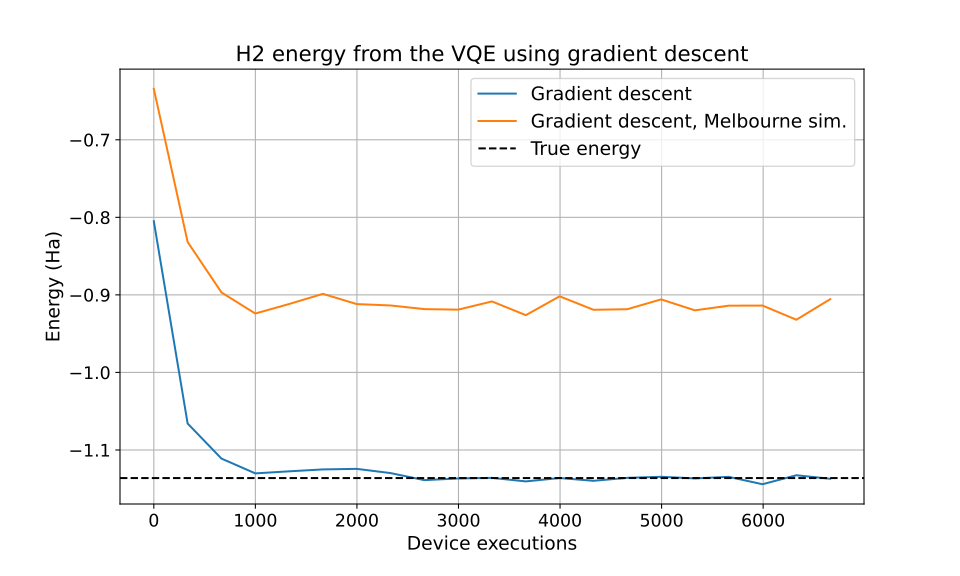
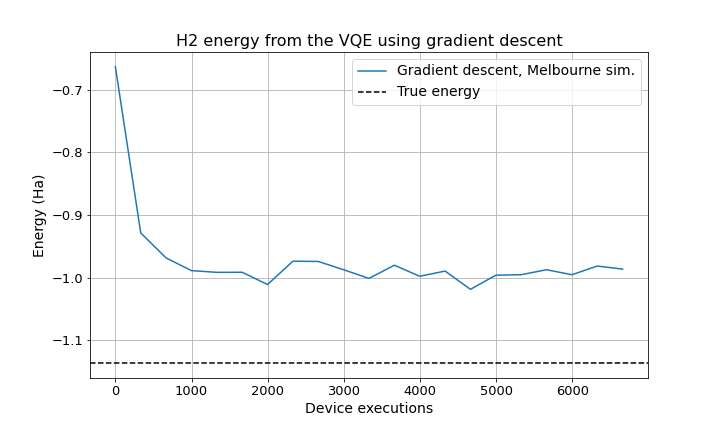
Update noisy VQE example.

diff --git a/demonstrations/spsa.py b/demonstrations/spsa.py
@@ -483,15 +483,15 @@ print(f"Accuracy with respect to the true energy: {np.abs(energy - true_energy):
 #  Out:
 #
 #  .. code-block:: none
+#     Iteration = 0,  Energy = -0.66345346 Ha
+#     Iteration = 5,  Energy = -0.99124272 Ha
+#     Iteration = 10,  Energy = -1.00105536 Ha
+#     Iteration = 15,  Energy = -0.99592924 Ha
 #
-#     Iteration = 0,  Energy = -0.63437409 Ha
-#     Iteration = 5,  Energy = -0.89866763 Ha
-#     Iteration = 10,  Energy = -0.90846615 Ha
-#     Iteration = 15,  Energy = -0.90582867 Ha
+#     Final estimated value of the ground-state energy = -0.98134253 Ha
+#     Accuracy with respect to the true energy: 0.15484692 Ha
 #
-#     Final estimated value of the ground-state energy = -0.93208561 Ha
-#     Accuracy with respect to the true energy: 0.20410384 Ha
-#
+
 
 plt.figure(figsize=(10, 6))
 
@@ -603,8 +603,17 @@ print(f"Accuracy with respect to the true energy: {np.abs(energy - true_energy):
 
 plt.figure(figsize=(10, 6))
 
-plt.plot(h2_grad_device_executions_melbourne, h2_grad_energies_melbourne, label="Gradient descent, Melbourne sim.")
-plt.plot(h2_spsa_device_executions_melbourne, h2_spsa_energies_melbourne, label="SPSA, Melbourne sim.")
+plt.plot(
+    h2_grad_device_executions_melbourne,
+    h2_grad_energies_melbourne,
+    label="Gradient descent, Melbourne sim."
+)
+
+plt.plot(
+    h2_spsa_device_executions_melbourne,
+    h2_spsa_energies_melbourne,
+    label="SPSA, Melbourne sim."
+)
 
 plt.title("H2 energy from the VQE using gradient descent vs. SPSA", fontsize=16)
 plt.xlabel("Number of device executions", fontsize=14)
